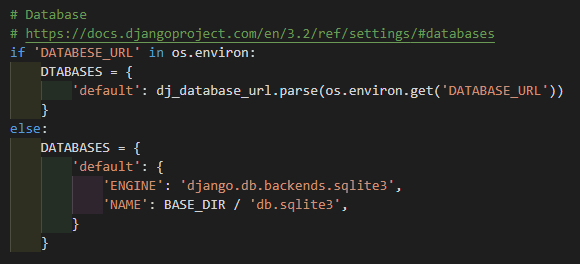
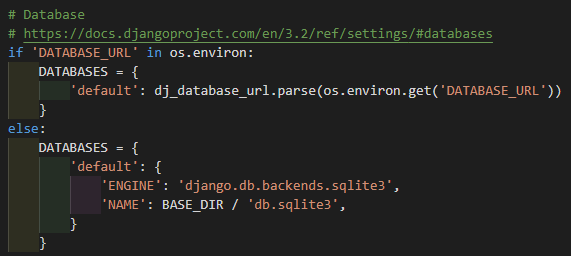
Set up project for deploying to heroku

diff --git a/what_you_need/settings.py b/what_you_need/settings.py
@@ -10,9 +10,10 @@ For the full list of settings and their values, see
 https://docs.djangoproject.com/en/3.2/ref/settings/
 """
 
-from pathlib import Path
-
 import os
+import dj_database_url
+
+from pathlib import Path
 
 # Build paths inside the project like this: BASE_DIR / 'subdir'.
 BASE_DIR = Path(__file__).resolve().parent.parent
@@ -27,7 +28,7 @@ SECRET_KEY = 'django-insecure-9*$(_^mcmj203b9(b(lly(35j(0%w_%u2p&_uxkx5a%6fgkrkl
 # SECURITY WARNING: don't run with debug turned on in production!
 DEBUG = True
 
-ALLOWED_HOSTS = []
+ALLOWED_HOSTS = ['what-you-need.herokuapp.com', 'localhost']
 
 
 # Application definition
@@ -127,14 +128,17 @@ WSGI_APPLICATION = 'what_you_need.wsgi.application'
 
 # Database
 # https://docs.djangoproject.com/en/3.2/ref/settings/#databases
-
-DATABASES = {
-    'default': {
-        'ENGINE': 'django.db.backends.sqlite3',
-        'NAME': BASE_DIR / 'db.sqlite3',
+if 'DATABASE_URL' in os.environ:
+    DATABASES = {
+        'default': dj_database_url.parse(os.environ.get('DATABASE_URL'))
     }
-}
-
+else:
+    DATABASES = {
+        'default': {
+            'ENGINE': 'django.db.backends.sqlite3',
+            'NAME': BASE_DIR / 'db.sqlite3',
+        }
+    }
 
 # Password validation
 # https://docs.djangoproject.com/en/3.2/ref/settings/#auth-password-validators

diff --git a/DEPLOYMENT.md b/DEPLOYMENT.md
@@ -130,7 +130,8 @@ The next step is the live deployment of the website :arrow_double_down:
 7. A pop-up appears to select a plan. Select **Hobby Dev - Free**.
     * ![Free plan Postgres](documentation/deployment/free-postgres.png)
 
-8. Now you need to save your current database and load it into a db.json file by typing in the CLI of your IDE:
+8. Now you need to save your current database and load it into a db.json file:
+    * Previous to loading the date, ensure you have deleted user profiles from admin panel of your website to avoid any recurrencies.
     * ``python3 manage.py dumpdata --exclude auth.permission --exclude contenttypes > db.json``
     * This will be the data that you will upload to Postgres. Note that you can use a different filename than "db", and it will then be ``<YOUR FILENAME>.json``
 
@@ -142,18 +143,18 @@ The next step is the live deployment of the website :arrow_double_down:
 10. Freeze the requirements. In order to add the new dependencies to *requirements.txt* type in the CLI:
     * ``pip3 freeze > requirements.txt`` This will make sure Heroku install all the apps requirements when we deploy it.
 
-11. Go to what-you-need > settings.py (root folder) and import dj_database_url by typing ``import dj_database_url`` at the top of the file.
+11. Go to your project folder what-you-need > settings.py (root folder) and import dj_database_url by typing ``import dj_database_url`` at the top of the file.
 
 12. Then still in settings.py, down in the Database settings, comment out the default database configuration:
     * ![Default config](documentation/deployment/default-database-commented-out.png)
 
 13. Replace the default database with a call to *dj_database_url.parse* and give it the database URL from Heroku.
     * ![Replace databases](documentation/deployment/replace-databases.png)
-    * You can either get it from your config variables in your Heroku app settings tab, or from the command line by typing Heroku config.
+    * You can either get your url from your config variables in your Heroku app settings tab, or from the command line by typing Heroku config.
       * ![Database url Heroku](documentation/deployment/database-url-heroku.png)
 
 14. Run migrations by typing in the CLI:
-    * ``Python3 manage.py migrate`` This will apply all the migrations and get the database all set up.
+    * ``python3 manage.py migrate`` This will apply all the migrations and get the database all set up.
 
 15. Run the following command to load the data previously saved into the json file by typing in the CLI:
     * ``python3 manage.py loaddata db.json``
